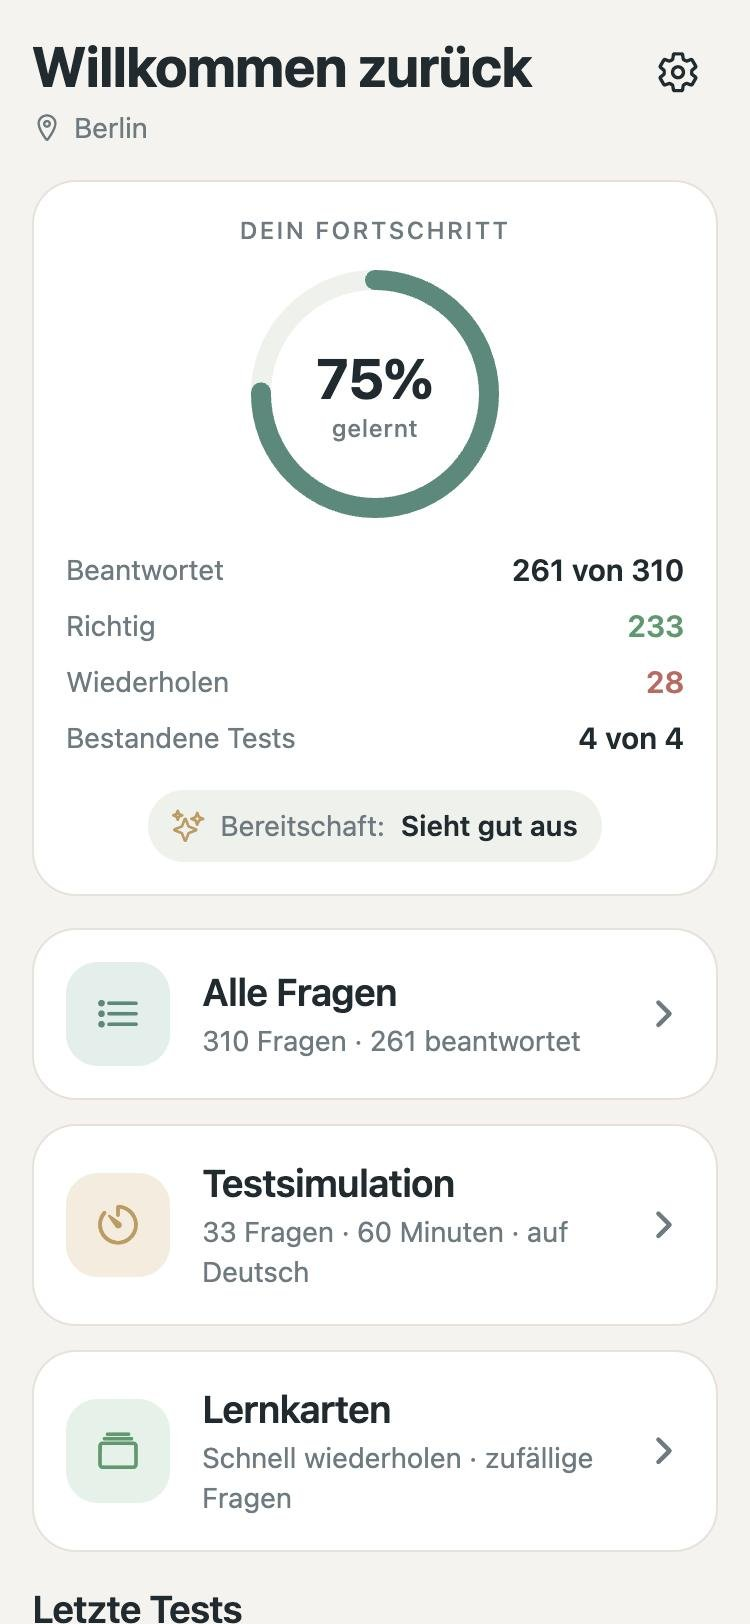
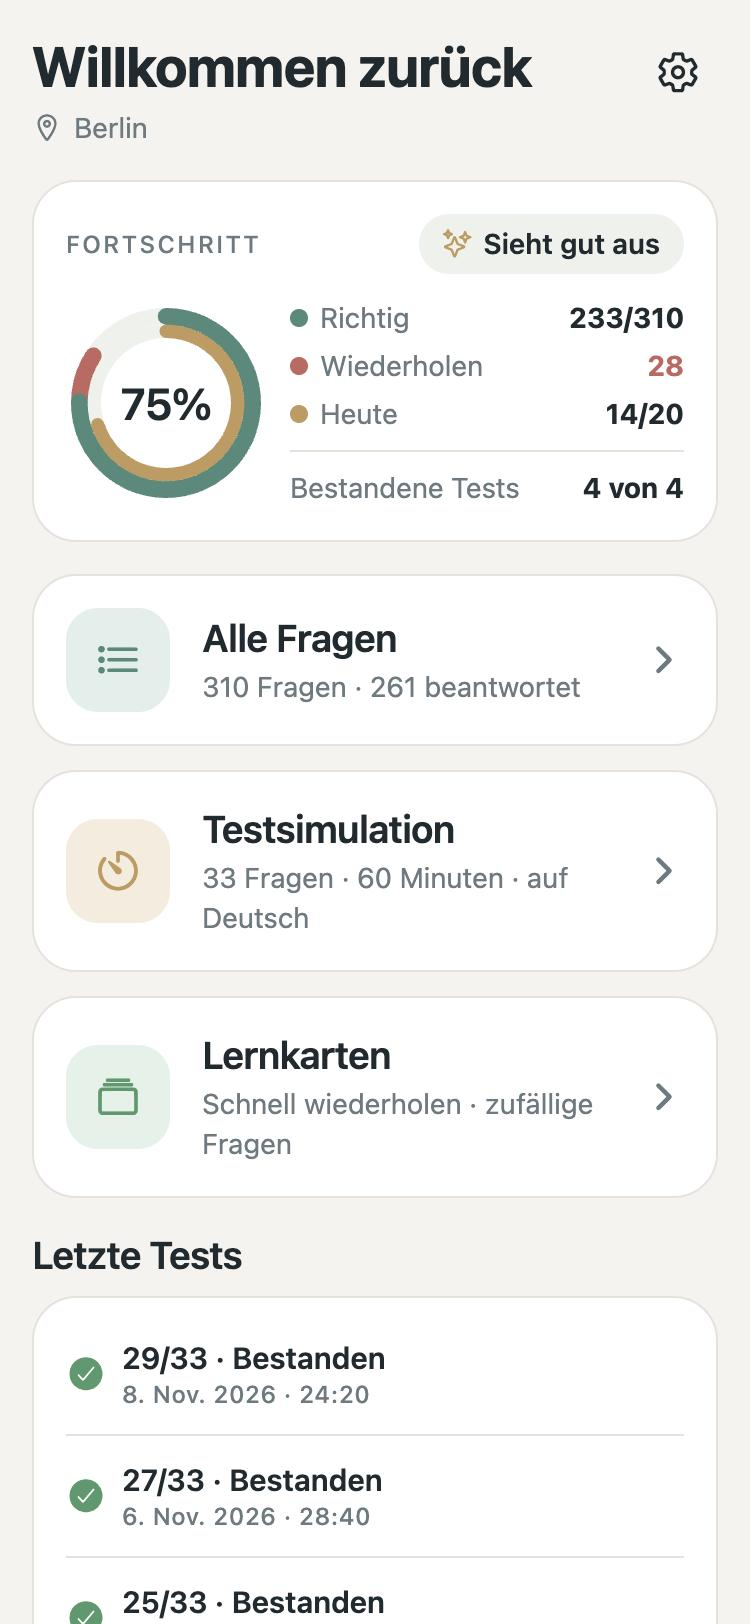
Refresh home screenshots for the new progress card
New de/en home shots (landing images, Open Graph cards, F-Droid listing) show
the double ring with the daily goal; alt texts and the progress feature text
mention it. Website and listing only, so the version stays at 1.7.0.

diff --git a/landing/index.html b/landing/index.html
@@ -135,11 +135,11 @@
         </div>
 
         <div class="feature">
-          <div class="feature-media"><img src="/images/de-home.webp" alt="Fortschrittsübersicht mit Kreisdiagramm, beantworteten und richtigen Fragen" width="482" height="971" loading="lazy"></div>
+          <div class="feature-media"><img src="/images/de-home.webp" alt="Fortschritt mit zwei Ringen: außen richtige Antworten und Fragen zum Wiederholen, innen das heutige Tagesziel" width="482" height="971" loading="lazy"></div>
           <div>
             <span class="tag">Alle Fragen &amp; Fortschritt</span>
             <h3>Sieh, wie du vorankommst</h3>
-            <p>Alle 300 allgemeinen Fragen und die 10 Fragen deines Bundeslandes mit Suche und Filtern: neu, falsch beantwortet, markiert. Der Fortschritt zeigt dir, wann du bereit bist.</p>
+            <p>Alle 300 allgemeinen Fragen und die 10 Fragen deines Bundeslandes mit Suche und Filtern: neu, falsch beantwortet, markiert. Der Fortschritt zeigt dir, wann du bereit bist, und mit einem Tagesziel bleibst du jeden Tag dran.</p>
           </div>
         </div>
 

diff --git a/landing/en/index.html b/landing/en/index.html
@@ -135,11 +135,11 @@
         </div>
 
         <div class="feature">
-          <div class="feature-media"><img src="/images/en-home.webp" alt="Progress overview with a ring chart, answered and correct questions" width="482" height="971" loading="lazy"></div>
+          <div class="feature-media"><img src="/images/en-home.webp" alt="Progress with two rings: correct answers and questions to review outside, today's daily goal inside" width="482" height="971" loading="lazy"></div>
           <div>
             <span class="tag">All questions &amp; progress</span>
             <h3>See how far you’ve come</h3>
-            <p>All 300 general questions plus the 10 for your federal state, with search and filters: new, answered wrong, starred. Your progress shows when you’re ready.</p>
+            <p>All 300 general questions plus the 10 for your federal state, with search and filters: new, answered wrong, starred. Your progress shows when you’re ready, and a daily goal keeps you going every day.</p>
           </div>
         </div>
 
